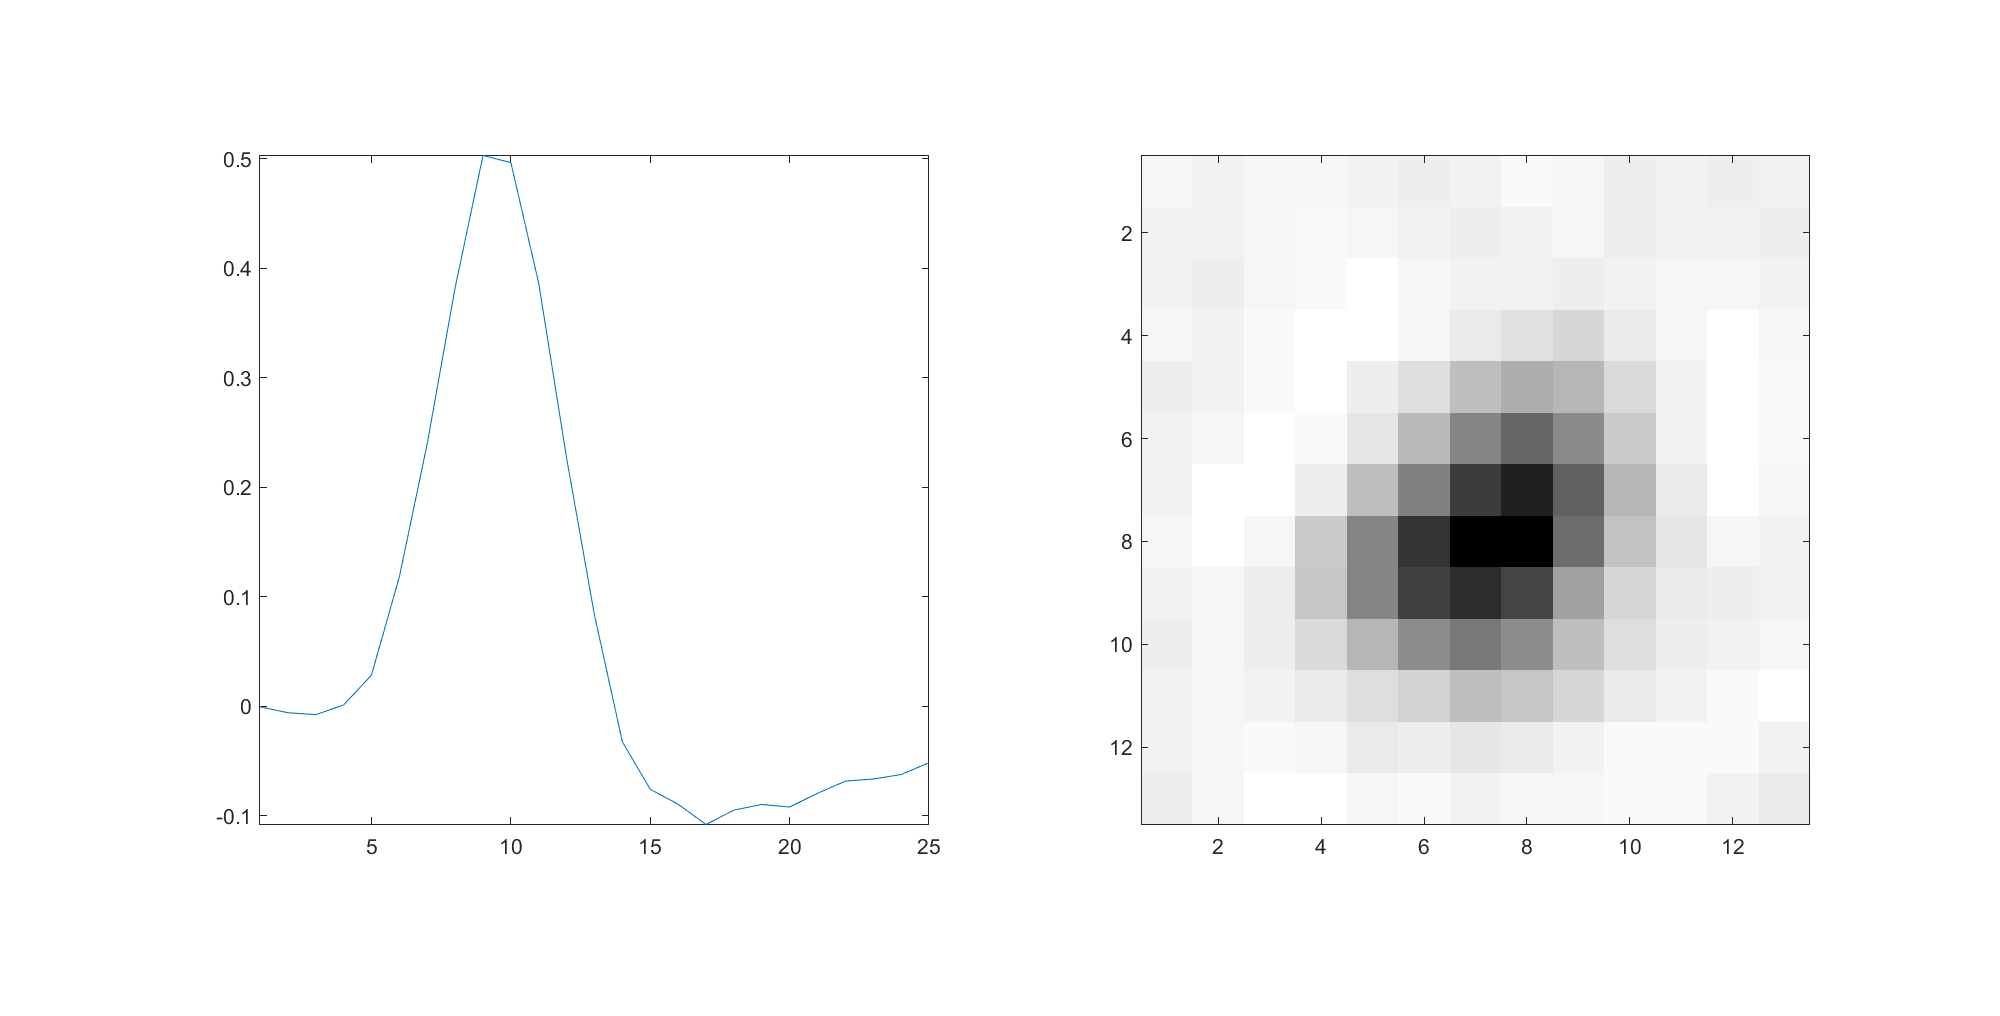
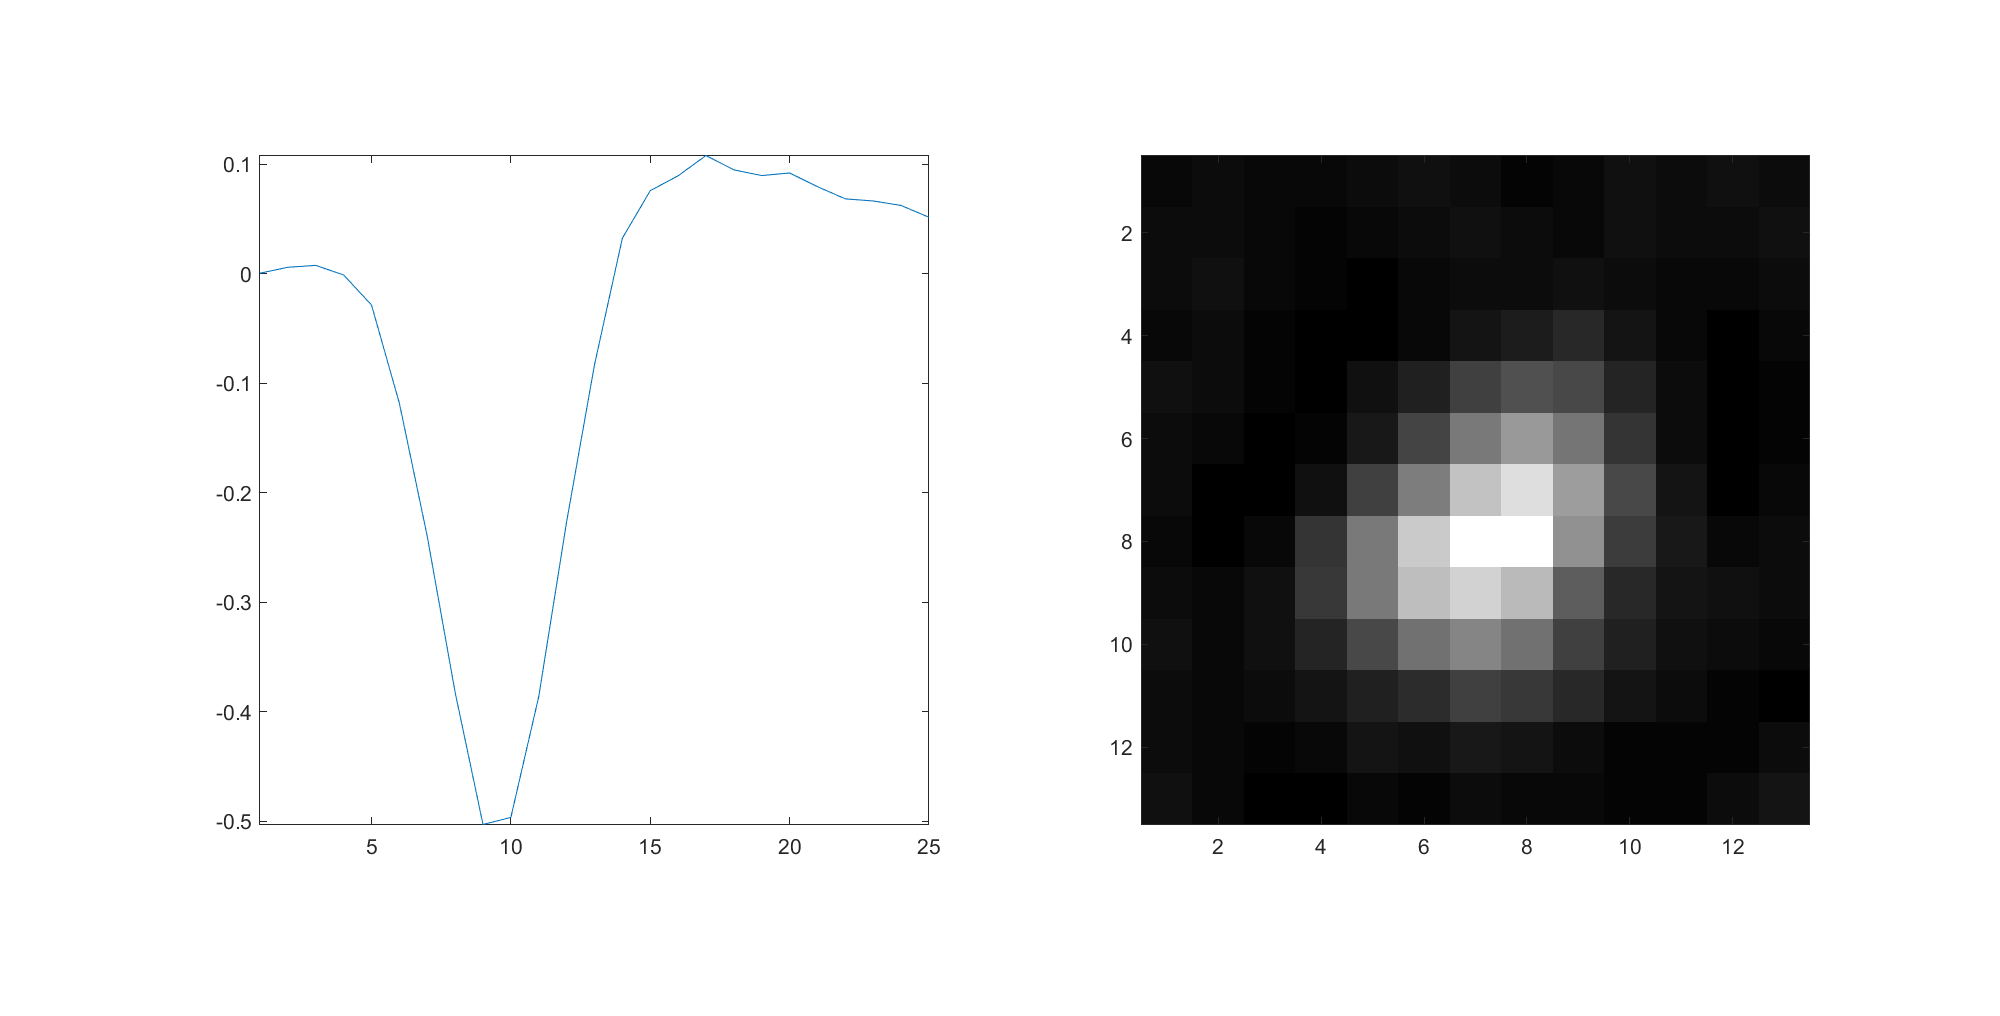
just in case

diff --git a/code/NIM/NIM_fit_w_NIM_sim_data.m b/code/NIM/NIM_fit_w_NIM_sim_data.m
@@ -57,6 +57,7 @@ clear Ui XVi
 %% sanity check
 subplot(1,3,1)
 histogram(spk_bootstrap) %(:,4))
+xlim([-0.5, 4.5])
 ylabel('fake spk w bootstrap')
 subplot(1,3,2)
 histogram(spk_rnd) %(:,4))
@@ -66,6 +67,7 @@ subplot(1,3,3)
 spikes = datarun.spikes{3};
 Robs = NIM.Spks2Robs(spikes, binsize, NT );
 histogram(Robs)
+xlim([-0.5, 4.5])
 ylabel('real spk Robs')
 set(gcf, 'Position', get(0, 'Screensize'));
 saveas(gcf, ['fake-spk-dist-' num2str(cell_id) '.png'])
@@ -138,11 +140,11 @@ k0 = reshape(fit0_re.subunits(1).filtK, [nLags, NY * NX]);
 figure(2); clf;
 [U, S, V] = svd(k0);
 subplot(1,2,1)
-plot(U(:,1))
+plot(-1*U(:,1))
 axis tight
 axis square
 subplot(1,2,2); colormap gray
-imagesc(reshape(V(:,1), NY, NX))
+imagesc(reshape(-1*V(:,1), NY, NX))
 axis square
 set(gcf, 'Position', get(0, 'Screensize'));
 saveas(gcf, ['k0_filter-' num2str(cell_id) '.png'])
